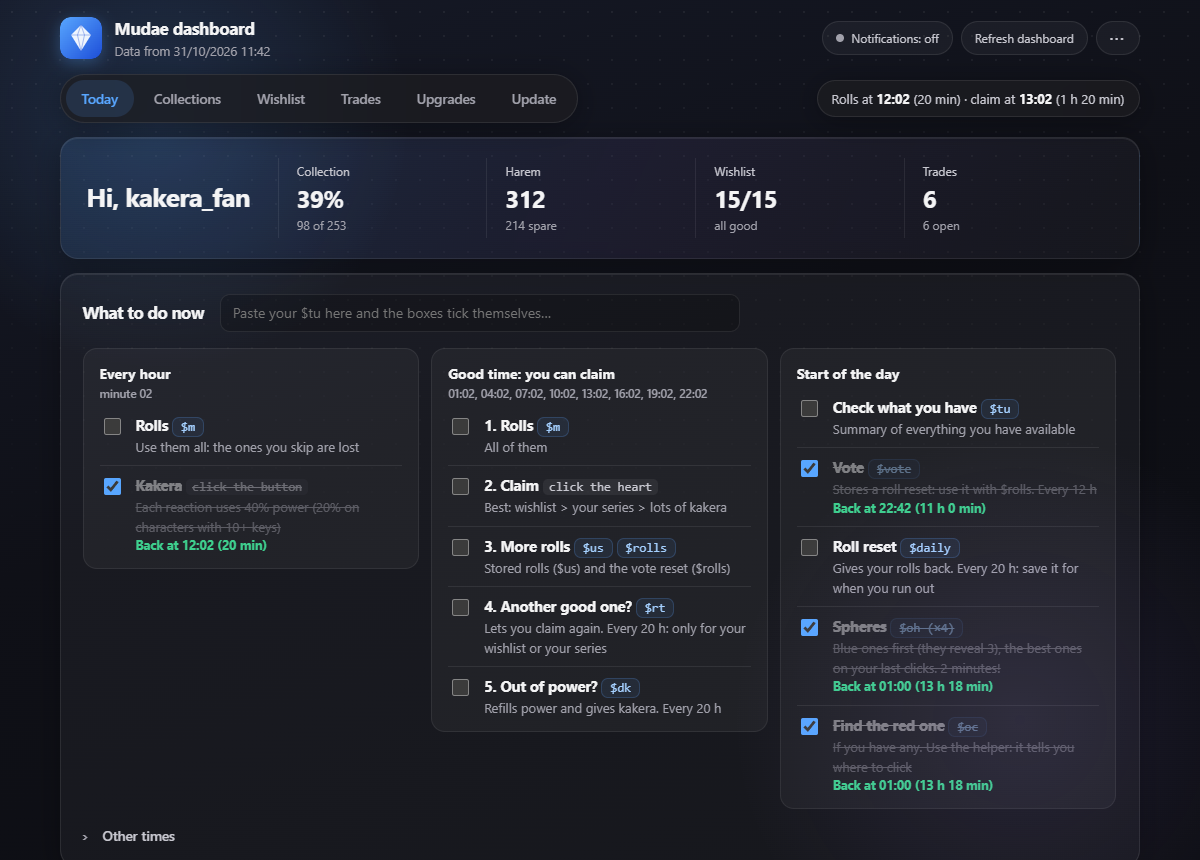
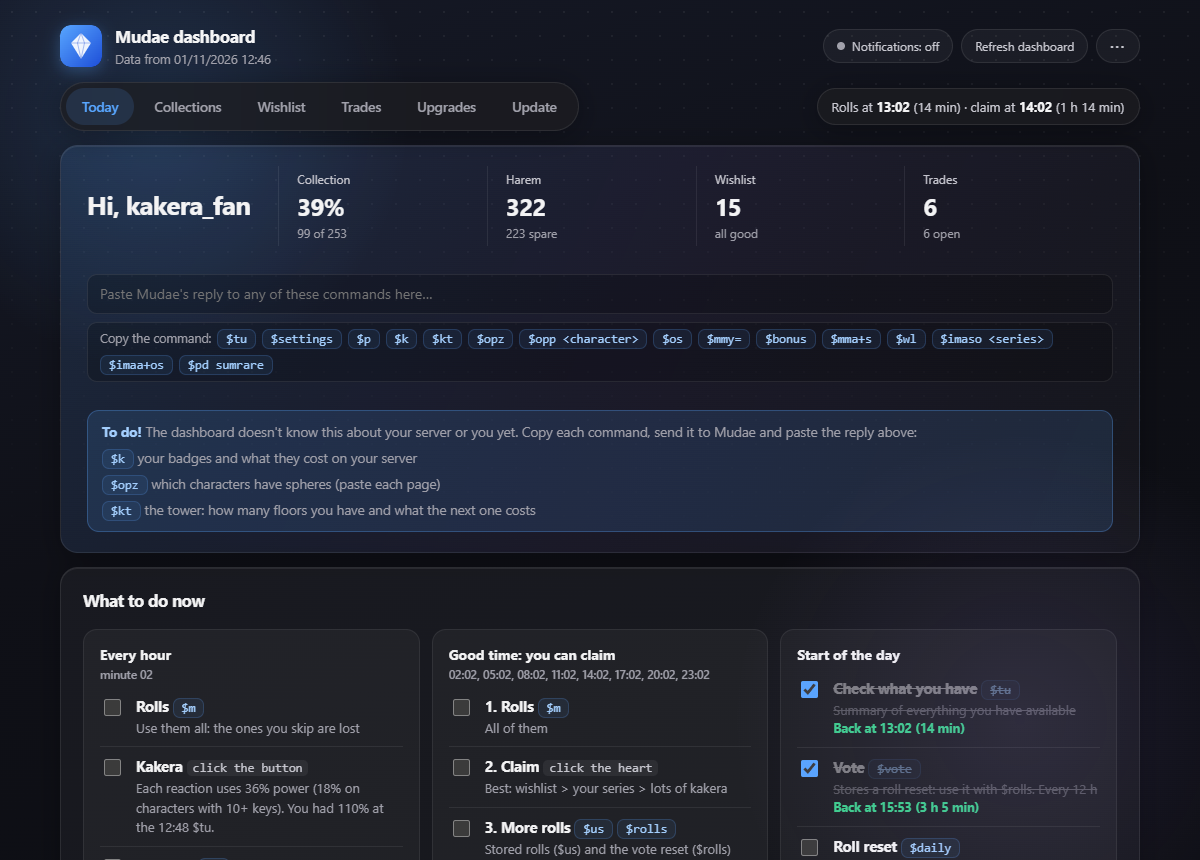
docs: new screenshots and README for paste-to-save and the To do box
Screenshots are anonymised and in English. The READMEs explain that
everything is pasted into the Today box and saved straight away, the
To do box, $opz and the sphere advice.

diff --git a/README.es.md b/README.es.md
@@ -6,24 +6,24 @@
 <b>Descárgalo:</b> botón verde <b>Code → Download ZIP</b>, arriba de esta página.<br>
 <a href="README.md">English</a> · <a href="README.ca.md">Català</a> · <b>Español</b></p>
 
-![La pestaña Hoy: cifras de la colección, el reloj de tiradas y reclamo, y qué toca ahora](assets/tauler.png)
+![La pestaña Hoy: cifras de la colección, el reloj de tiradas y reclamo, la casilla para pegar con el recuadro ¡Pendiente!, y qué toca ahora](assets/tauler.png)
 
 Un panel que funciona en tu ordenador para el bot de Discord Mudae. Pegas lo que te envía Mudae y te lleva las colecciones, la wishlist y los intercambios, te dice qué toca hacer cada hora, te ayuda con el juego de esferas `$oc` y te mantiene al día un Excel. En español, catalán e inglés.
 
 ## Qué hace
 
 - **Pestañas por orden de uso**: Hoy, Colecciones, Wishlist, Intercambios, Mejoras y Poner al día. El reloj de tiradas y reclamo se ve desde todas, los avisos te llevan a la pestaña donde se arreglan, y los bloques largos se pliegan y se quedan abiertos o cerrados como los dejaste.
-- **Una sola casilla para todo**: arriba de la pestaña Hoy pegas cualquier mensaje de Mudae (`$tu`, `$settings`, `$bonus`, `$k`, `$kt`, `$opp`, `$os`, `$mmy=`, `$mma+s`, `$wl`, `$imaso`…) y el panel lo envía donde toca. Debajo hay un botón para copiar cada comando que entiende y un recuadro **¡Pendiente!** con los comandos que aún le faltan: no supone nada de lo que depende de tu servidor o de ti (horas de tiradas y reclamos, horas del `$rt`, huecos de la wishlist, precios de las insignias y de la torre). El harén, la wishlist y las series van a «Poner al día» para que lo revises antes de guardarlo.
+- **Una sola casilla para todo**: arriba de la pestaña Hoy pegas cualquier mensaje de Mudae (`$tu`, `$settings`, `$bonus`, `$k`, `$kt`, `$opp`, `$opz`, `$os`, `$mmy=`, `$mma+s`, `$wl`, `$imaso`…) y el panel lo lee en cuanto lo pegas, sin ningún botón, y lo envía donde toca. Debajo hay un botón para copiar cada comando que entiende y un recuadro **¡Pendiente!** con los comandos que aún le faltan: no supone nada de lo que depende de tu servidor o de ti (horas de tiradas y reclamos, horas del `$rt`, huecos de la wishlist, precios de las insignias y de la torre). El harén, la wishlist y las series se guardan enseguida; una serie nueva o una colección especial te espera en «Poner al día» para que la compruebes.
 - **Qué toca ahora**: pegas el `$tu` y la lista se marca sola, Pokéslot (`$p`) incluido. Tres tarjetas (cada hora, momento de reclamar, al empezar el día) donde cada tarea queda marcada hasta que la puedes volver a hacer (`$daily` y `$dk` cada 20 h, `$vote` cada 12 h, `$oh` a medianoche UTC, tiradas en el minuto de tu servidor…). El minuto de las tiradas y el próximo reclamo salen del `$tu`, cada cuánto hay reclamo del `$settings` y las horas del `$rt` del `$bonus`.
 - **Notificaciones**: mientras el panel está abierto, te avisa cuando vuelves a tener tiradas (y te dice si puedes reclamar y reaccionar a kakera), y cuando vuelves a tener el reclamo, el `$daily`, el `$vote`, el `$dk`, el `$rt` o el `$p`. Suenan y se quedan en pantalla hasta que las cierras. Se activan y se desactivan con el botón **Notificaciones** de arriba.
 - **Ayudante del `$oc`**: marcas los colores que salen y te dice en qué casilla hacer clic para encontrar la roja. Está plegado en la pestaña Hoy: se abre con un clic.
 - **Colecciones**: un álbum por serie con tus personajes, los libres, los de la wishlist y los de otros jugadores (y de quién son). Haces clic en los que consigues para marcarlos como tuyos.
 - **Colecciones especiales**: un grupo que eliges tú, aunque no sea una serie de Mudae (por ejemplo, los Eevee de la Pokédex). Escribes el nombre y los personajes, y el `$imaso` de la serie de la que salen te pone de quién es cada uno.
 - **Pokédex**: pegas el `$pd sumrare` (un solo mensaje) y ves cuántos Pokémon tienes de cada rareza. Si pegas el mensaje del tiempo que falta para el próximo `$p`, se marca la tarea del Pokéslot.
-- **Mejoras**: pegas el `$k`, el `$kt`, un `$opp <personaje>`, el `$os`, el `$mmy=` o el `$bonus` y te dice qué insignia, qué piso de la torre, qué mejora de esferas y qué mejora de la tienda de esferas te toca, y cuánta kakera te falta. El `$bonus` añade un resumen: cuántos botones de kakera haces con el poder lleno, las esferas del primer `$oh`, las horas del `$rt` y los huecos de la wishlist. Los precios solo salen de lo que pegas (`$k`, `$kt`), porque cada servidor tiene los suyos.
+- **Mejoras**: pegas el `$k`, el `$kt`, un `$opp <personaje>`, el `$os`, el `$mmy=` o el `$bonus` y te dice qué insignia, qué piso de la torre, qué mejora de esferas y qué mejora de la tienda de esferas te toca, y cuánta kakera te falta. El `$bonus` añade un resumen: cuántos botones de kakera haces con el poder lleno, las esferas del primer `$oh`, las horas del `$rt` y los huecos de la wishlist. Los precios solo salen de lo que pegas (`$k`, `$kt`), porque cada servidor tiene los suyos. Para las esferas: primero la mejora 10 en todos los personajes que no vayas a regalar (hasta 100), las 1-9 solo en los que te salen a menudo, un plan con el `$or` cuando sale a cuenta, y te dice cuándo parar y pasar a la tienda de esferas. Su casilla funciona como la de Hoy.
 - **Wishlist**: te avisa de los que ya son tuyos o que ha reclamado alguien, y te prepara los comandos `$wishremove` y `$wish`.
 - **Intercambios y regalos**: el comando `$give` para cada jugador, y un buscador que entiende listas de series mal escritas («full metal alchimist», «Rezero»…).
-- **Poner al día**: pegas el `$mma+s` (tu harem, con la serie de cada personaje), el `$wl` o un `$imaso` y haces clic en un botón. Te avisa si hace más de una semana que no pones al día el harem.
+- **Poner al día**: pegas el `$mma+s` (tu harem, con la serie de cada personaje), el `$wl` o un `$imaso` y se guarda en cuanto lo pegas (una serie nueva o una colección especial te espera para que la compruebes y pulses el botón). Te avisa si hace más de una semana que no pones al día el harem.
 - **Comandos de uso habitual**: por temas (tiradas, reclamar, tu colección, harén y perfil, intercambios, esferas, torre, kakera, Pokéslot…), cada grupo plegado, con un buscador («wish», «kakera»…), lo que hace cada comando y un botón de copiar.
 - **Excel**: lo mismo en una hoja de cálculo, que respeta lo que escribes en ella (prioridades, notas, estado de los intercambios).
 
@@ -36,11 +36,12 @@ Un panel que funciona en tu ordenador para el bot de Discord Mudae. Pegas lo que
 1. Instala [Python](https://www.python.org/downloads/) 3.12 o más nuevo. En la primera pantalla del instalador, marca «Add python.exe to PATH» (recomendado, aunque sin él también funciona).
 2. Haz clic en el botón verde **Code → Download ZIP** arriba de esta página. Antes de descomprimirlo: clic derecho al ZIP → **Propiedades** → marca **«Desbloquear»** → Aceptar (si no, Windows puede bloquear los `.bat`). Después descomprime la carpeta donde la quieras tener (por ejemplo, en Documentos). No la abras desde dentro del zip.
 3. Doble clic en **`Configura.bat`**. Elige el idioma (el 2 es el español), escribe tu nombre en Mudae (el que sale en «Pertenece a …» en tus personajes) y, si quieres, el del servidor. Crea el acceso directo **Mudae** en el escritorio y abre el panel.
-4. En el panel, ve a **«Poner al día»** y pega, por orden:
-   - **Tu harem**: escribe `$mma+s` en Discord, copia el mensaje que te llega por privado y pégalo eligiendo «Tu harem».
-   - **Tu wishlist**: `$wl`, eligiendo «La wishlist».
-   - **Cada serie que coleccionas**: `$imaso <serie>` (por ejemplo, `$imaso Harry Potter`), eligiendo «Una serie» → «Serie nueva…» y escribiendo su nombre tal como sale en Mudae.
-   - **Después, todas de golpe**: elige «Todas tus series», copia el comando que sale (`$imaa+os Serie 1 $ Serie 2 $ …`) y pega todos los mensajes que te devuelve Mudae. No hace falta elegir qué pegas: el panel lo adivina.
+4. En el panel, pega lo que te envía Mudae en la casilla de arriba de la pestaña **Hoy**. Adivina qué es cada mensaje y lo guarda solo. Por orden:
+   - **Tu harem**: escribe `$mma+s` en Discord, copia el mensaje que te llega por privado y pégalo.
+   - **Tu wishlist**: `$wl`.
+   - **Cada serie que coleccionas**: `$imaso <serie>` (por ejemplo, `$imaso Harry Potter`). Una serie nueva te espera: comprueba su nombre en «Poner al día» y pulsa **Guardar y actualizar**.
+   - **Después, todas de golpe**: en «Poner al día», elige «Todas tus series», copia el comando que sale (`$imaa+os Serie 1 $ Serie 2 $ …`) y pega todos los mensajes que te devuelve Mudae.
+   - **Tu servidor y tú**: el recuadro **¡Pendiente!**, debajo de la casilla, dice qué comandos faltan (`$tu`, `$settings`, `$bonus`, `$k`…). Pégalos igual.
 
 A partir de aquí, abre el panel con el acceso directo **Mudae** del escritorio.
 
@@ -49,7 +50,7 @@ A partir de aquí, abre el panel con el acceso directo **Mudae** del escritorio.
 - **Qué toca ahora** te dice qué hacer y cuándo. Ve marcando lo que haces.
 - **Cuando consigas un personaje**: en «Colecciones», elige la serie, haz clic en él y en **Ya son míos**.
 - **Cuando regales**: en «Intercambios» → «Buscar entre los míos», búscalos, copia el `$give` y, cuando Mudae lo confirme, haz clic en **Ya los he dado**.
-- **Una vez por semana**: vuelve a pegar el `$mma+s` en «Poner al día» (el panel te avisa).
+- **Una vez por semana**: vuelve a pegar el `$mma+s` en la casilla de Hoy (el panel te avisa).
 
 ## Bueno saber
 

diff --git a/README.ca.md b/README.ca.md
@@ -6,24 +6,24 @@
 <b>Descarrega'l:</b> botó verd <b>Code → Download ZIP</b>, a dalt d'aquesta pàgina.<br>
 <a href="README.md">English</a> · <b>Català</b> · <a href="README.es.md">Español</a></p>
 
-![La pestanya Avui: xifres de la col·lecció, el rellotge de tirades i reclam, i què toca ara](assets/tauler.png)
+![La pestanya Avui: xifres de la col·lecció, el rellotge de tirades i reclam, la casella per enganxar amb el requadre Pendent!, i què toca ara](assets/tauler.png)
 
 Un tauler que funciona al teu ordinador per al bot de Discord Mudae. Hi enganxes el que t'envia Mudae i et porta les col·leccions, la wishlist i els intercanvis, et diu què toca fer a cada hora, t'ajuda amb el joc d'esferes `$oc` i et manté al dia un Excel. En català, castellà i anglès.
 
 ## Què fa
 
 - **Pestanyes per ordre d'ús**: Avui, Col·leccions, Wishlist, Intercanvis, Millores i Posar al dia. El rellotge de tirades i reclam es veu des de totes, els avisos et porten a la pestanya on s'arreglen, i els blocs llargs es pleguen i es queden oberts o tancats com els vas deixar.
-- **Una sola casella per a tot**: a dalt de la pestanya Avui hi enganxes qualsevol missatge de Mudae (`$tu`, `$settings`, `$bonus`, `$k`, `$kt`, `$opp`, `$os`, `$mmy=`, `$mma+s`, `$wl`, `$imaso`…) i el tauler l'envia on toca. A sota hi ha un botó per copiar cada ordre que entén i un requadre **Pendent!** amb les ordres que encara li falten: no suposa res del que depèn del teu servidor o de tu (hores de tirades i reclams, hores del `$rt`, llocs de la wishlist, preus de les insígnies i de la torre). El harem, la wishlist i les sèries van a «Posar al dia» perquè ho revisis abans de desar-ho.
+- **Una sola casella per a tot**: a dalt de la pestanya Avui hi enganxes qualsevol missatge de Mudae (`$tu`, `$settings`, `$bonus`, `$k`, `$kt`, `$opp`, `$opz`, `$os`, `$mmy=`, `$mma+s`, `$wl`, `$imaso`…) i el tauler el llegeix així que l'enganxes, sense cap botó, i l'envia on toca. A sota hi ha un botó per copiar cada ordre que entén i un requadre **Pendent!** amb les ordres que encara li falten: no suposa res del que depèn del teu servidor o de tu (hores de tirades i reclams, hores del `$rt`, llocs de la wishlist, preus de les insígnies i de la torre). El harem, la wishlist i les sèries es desen de seguida; una sèrie nova o una col·lecció especial t'espera a «Posar al dia» perquè la comprovis.
 - **Què toca ara**: enganxes el `$tu` i la llista es marca sola, Pokéslot (`$p`) inclòs. Tres targetes (cada hora, moment de reclamar, en començar el dia) on cada tasca queda marcada fins que la pots tornar a fer (`$daily` i `$dk` cada 20 h, `$vote` cada 12 h, `$oh` a mitjanit UTC, tirades al minut del teu servidor…). El minut de les tirades i el pròxim reclam surten del `$tu`, cada quant hi ha reclam del `$settings` i les hores del `$rt` del `$bonus`.
 - **Notificacions**: mentre el tauler és obert, t'avisa quan tornes a tenir tirades (i et diu si pots reclamar i reaccionar a kakera), i quan tornes a tenir el reclam, el `$daily`, el `$vote`, el `$dk`, el `$rt` o el `$p`. Fan un so i es queden a la pantalla fins que les tanques. S'activen i es desactiven amb el botó **Notificacions** de dalt.
 - **Ajudant del `$oc`**: marques els colors que surten i et diu quina casella clicar per trobar la vermella. És plegat a la pestanya Avui: s'obre amb un clic.
 - **Col·leccions**: un àlbum per sèrie amb els teus personatges, els lliures, els de la wishlist i els d'altres jugadors (i de qui són). Cliques els que aconsegueixes per marcar-los com a teus.
 - **Col·leccions especials**: un grup que tries tu, encara que no sigui una sèrie de Mudae (per exemple, els Eevee de la Pokédex). Escrius el nom i els personatges, i el `$imaso` de la sèrie d'on surten t'hi posa de qui és cada un.
 - **Pokédex**: enganxes el `$pd sumrare` (un sol missatge) i veus quants Pokémon tens de cada raresa. Si enganxes el missatge del temps que falta per al pròxim `$p`, es marca la tasca del Pokéslot.
-- **Millores**: enganxes el `$k`, el `$kt`, un `$opp <personatge>`, el `$os`, el `$mmy=` o el `$bonus` i et diu quina insígnia, quin pis de la torre, quina millora d'esferes i quina de la botiga d'esferes et toca, i quanta kakera et falta. El `$bonus` hi afegeix un resum: quants botons de kakera fas amb el poder ple, les esferes del primer `$oh`, les hores del `$rt` i els llocs de la wishlist. Els preus només surten del que enganxes (`$k`, `$kt`), perquè cada servidor té els seus.
+- **Millores**: enganxes el `$k`, el `$kt`, un `$opp <personatge>`, el `$os`, el `$mmy=` o el `$bonus` i et diu quina insígnia, quin pis de la torre, quina millora d'esferes i quina de la botiga d'esferes et toca, i quanta kakera et falta. El `$bonus` hi afegeix un resum: quants botons de kakera fas amb el poder ple, les esferes del primer `$oh`, les hores del `$rt` i els llocs de la wishlist. Els preus només surten del que enganxes (`$k`, `$kt`), perquè cada servidor té els seus. Per a les esferes: primer la millora 10 a tots els personatges que no regalaràs (fins a 100), les 1-9 només als que et surten sovint, un pla amb el `$or` quan surt a compte, i et diu quan has de parar i passar a la botiga d'esferes. La seva casella funciona com la d'Avui.
 - **Wishlist**: t'avisa dels que ja són teus o que ha reclamat algú, i et prepara les ordres `$wishremove` i `$wish`.
 - **Intercanvis i regals**: l'ordre `$give` per a cada jugador, i un cercador que entén llistes de sèries mal escrites («full metal alchimist», «Rezero»…).
-- **Posar al dia**: enganxes el `$mma+s` (el teu harem, amb la sèrie de cada personatge), el `$wl` o un `$imaso` i cliques un botó. T'avisa si fa més d'una setmana que no poses al dia el harem.
+- **Posar al dia**: enganxes el `$mma+s` (el teu harem, amb la sèrie de cada personatge), el `$wl` o un `$imaso` i es desa així que l'enganxes (una sèrie nova o una col·lecció especial t'espera perquè la comprovis i cliquis el botó). T'avisa si fa més d'una setmana que no poses al dia el harem.
 - **Ordres d'ús habitual**: per temes (tirades, reclamar, la teva col·lecció, harem i perfil, intercanvis, esferes, torre, kakera, Pokéslot…), cada grup plegat, amb un cercador («wish», «kakera»…), el que fa cada ordre i un botó de copiar.
 - **Excel**: el mateix en un full de càlcul, que respecta el que hi escrius (prioritats, notes, estat dels intercanvis).
 
@@ -36,11 +36,12 @@ Un tauler que funciona al teu ordinador per al bot de Discord Mudae. Hi enganxes
 1. Instal·la [Python](https://www.python.org/downloads/) 3.12 o més nou. A la primera pantalla de l'instal·lador, marca «Add python.exe to PATH» (recomanat, tot i que sense també funciona).
 2. Clica el botó verd **Code → Download ZIP** a dalt d'aquesta pàgina. Abans de descomprimir-lo: clic dret al ZIP → **Propietats** → marca **«Desbloqueja»** → D'acord (si no, Windows pot bloquejar els `.bat`). Després descomprimeix la carpeta on la vulguis tenir (per exemple, a Documents). No l'obris des de dins del zip.
 3. Doble clic a **`Configura.bat`**. Tria l'idioma (el 3 és el català), escriu el teu nom a Mudae (el que surt a «Pertenece a …» als teus personatges) i, si vols, el del servidor. Crea l'accés directe **Mudae** a l'escriptori i obre el tauler.
-4. Al tauler, ves a **«Posar al dia»** i enganxa-hi, per ordre:
-   - **El teu harem**: escriu `$mma+s` a Discord, copia el missatge que t'arriba per privat i enganxa'l triant «El teu harem».
-   - **La teva wishlist**: `$wl`, triant «La wishlist».
-   - **Cada sèrie que col·lecciones**: `$imaso <sèrie>` (per exemple, `$imaso Harry Potter`), triant «Una sèrie» → «Sèrie nova…» i escrivint-ne el nom tal com surt a Mudae.
-   - **Després, totes de cop**: tria «Totes les teves sèries», copia l'ordre que surt (`$imaa+os Sèrie 1 $ Sèrie 2 $ …`) i enganxa tots els missatges que et torna Mudae. No cal triar què enganxes: el tauler ho endevina.
+4. Al tauler, enganxa el que t'envia Mudae a la casella de dalt de la pestanya **Avui**. Endevina què és cada missatge i el desa sol. Per ordre:
+   - **El teu harem**: escriu `$mma+s` a Discord, copia el missatge que t'arriba per privat i enganxa'l.
+   - **La teva wishlist**: `$wl`.
+   - **Cada sèrie que col·lecciones**: `$imaso <sèrie>` (per exemple, `$imaso Harry Potter`). Una sèrie nova t'espera: comprova'n el nom a «Posar al dia» i clica **Desar i actualitzar**.
+   - **Després, totes de cop**: a «Posar al dia», tria «Totes les teves sèries», copia l'ordre que surt (`$imaa+os Sèrie 1 $ Sèrie 2 $ …`) i enganxa tots els missatges que et torna Mudae.
+   - **El teu servidor i tu**: el requadre **Pendent!**, sota la casella, diu quines ordres falten (`$tu`, `$settings`, `$bonus`, `$k`…). Enganxa-les igual.
 
 A partir d'aquí, obre el tauler amb l'accés directe **Mudae** de l'escriptori.
 
@@ -49,7 +50,7 @@ A partir d'aquí, obre el tauler amb l'accés directe **Mudae** de l'escriptori.
 - **Què toca ara** et diu què fer i quan. Ves marcant el que fas.
 - **Quan aconsegueixis un personatge**: a «Col·leccions», tria la sèrie, clica'l i clica **Ja són meus**.
 - **Quan regalis**: a «Intercanvis» → «Buscar entre els meus», busca'ls, copia el `$give` i, quan Mudae ho confirmi, clica **Ja els he donat**.
-- **Un cop per setmana**: torna a enganxar el `$mma+s` a «Posar al dia» (el tauler t'avisa).
+- **Un cop per setmana**: torna a enganxar el `$mma+s` a la casella d'Avui (el tauler t'avisa).
 
 ## Bo de saber
 

diff --git a/README.md b/README.md
@@ -6,24 +6,24 @@
 <b>Download:</b> green <b>Code → Download ZIP</b> button at the top of this page.<br>
 <b>English</b> · <a href="README.ca.md">Català</a> · <a href="README.es.md">Español</a></p>
 
-![The Today tab: collection stats, the roll and claim clock, and what to do now](assets/tauler.png)
+![The Today tab: collection stats, the roll and claim clock, the paste box with its To do! list, and what to do now](assets/tauler.png)
 
 A dashboard that runs on your own computer for the Mudae Discord bot. You paste what Mudae sends you and it tracks your collections, wishlist and trades, tells you what to do each hour, helps you with the `$oc` sphere game and keeps an Excel workbook up to date. Available in English, Catalan and Spanish.
 
 ## Features
 
 - **Tabs in the order you use them**: Today, Collections, Wishlist, Trades, Upgrades and Update. The roll and claim clock stays above the tabs, alerts take you to the tab where you fix them, and long sections fold away and stay open or closed the way you left them.
-- **One box for everything**: paste any Mudae message at the top of the Today tab (`$tu`, `$settings`, `$bonus`, `$k`, `$kt`, `$opp`, `$os`, `$mmy=`, `$mma+s`, `$wl`, `$imaso`…) and the dashboard sends it where it belongs. Under it, a copy button for each command it understands and a **To do!** box with the commands it still needs: nothing that depends on your server or on you is assumed (roll and claim times, `$rt` hours, wishlist slots, badge and tower prices). Harem, wishlist and series go to «Update» so you can check them before saving.
+- **One box for everything**: paste any Mudae message at the top of the Today tab (`$tu`, `$settings`, `$bonus`, `$k`, `$kt`, `$opp`, `$opz`, `$os`, `$mmy=`, `$mma+s`, `$wl`, `$imaso`…) and the dashboard reads it as soon as you paste it, with no button, and sends it where it belongs. Under it, a copy button for each command it understands and a **To do!** box with the commands it still needs: nothing that depends on your server or on you is assumed (roll and claim times, `$rt` hours, wishlist slots, badge and tower prices). Harem, wishlist and series are saved straight away; a new series or a custom collection waits in «Update» for you to check it.
 - **What to do now**: paste your `$tu` and the checklist ticks itself, Pokéslot (`$p`) included. Three cards (every hour, claim time, start of the day) where each task stays ticked until you can do it again (`$daily` and `$dk` every 20 h, `$vote` every 12 h, `$oh` at midnight UTC, rolls at your server's minute…). The roll minute and the next claim come from your `$tu`, how often claims reset from `$settings`, and the `$rt` hours from `$bonus`.
 - **Notifications**: while the dashboard is open, it tells you when your rolls are back (and whether you can claim and react to kakera), and when your claim, `$daily`, `$vote`, `$dk`, `$rt` or `$p` are ready again. They beep and stay on screen until you close them. Turn them on and off with the **Notifications** button at the top.
 - **`$oc` helper**: mark the colors that appear and it tells you which square to click to find the red sphere. It's folded on the Today tab: open it with a click.
 - **Collections**: one album per series with your characters, the free ones, the ones on your wishlist and the ones other players own (and who). Click the ones you get to mark them as yours.
 - **Custom collections**: a group you pick, even if it isn't a Mudae series (for example, the Eevees from the Pokédex). Type its name and characters, and the `$imaso` of the series they come from fills in who owns each one.
 - **Pokédex**: paste your `$pd sumrare` (one message) and see how many Pokémon you have of each rarity. Pasting the «time left before your next `$p`» message ticks the Pokéslot task.
-- **Upgrades**: paste your `$k`, `$kt`, `$opp <character>`, `$os`, `$mmy=` or `$bonus` and it tells you which badge, tower floor, sphere perk and sphere shop upgrade to get next, and how much kakera you still need. The `$bonus` adds a summary: how many kakera buttons a full power bar covers, the spheres your first `$oh` gives, your `$rt` hours and your wishlist slots. Prices only come from what you paste (`$k`, `$kt`), since each server sets its own.
+- **Upgrades**: paste your `$k`, `$kt`, `$opp <character>`, `$os`, `$mmy=` or `$bonus` and it tells you which badge, tower floor, sphere perk and sphere shop upgrade to get next, and how much kakera you still need. The `$bonus` adds a summary: how many kakera buttons a full power bar covers, the spheres your first `$oh` gives, your `$rt` hours and your wishlist slots. Prices only come from what you paste (`$k`, `$kt`), since each server sets its own. For spheres: perk 10 first on every character you keep (up to 100), perks 1-9 only on the ones you roll often, a `$or` refund plan when it pays off, and it tells you when to stop and move to the sphere shop. Its paste box works like the Today one.
 - **Wishlist**: warns you about characters you already own or someone else claimed, and builds the `$wishremove` and `$wish` commands for you.
 - **Trades and gifts**: the `$give` command for each player, and a search box that understands misspelled series lists («full metal alchimist», «Rezero»…).
-- **Update**: paste your `$mma+s` (your harem, with each character's series), `$wl` or an `$imaso` and click a button. It reminds you if your harem is more than a week old.
+- **Update**: paste your `$mma+s` (your harem, with each character's series), `$wl` or an `$imaso` and it's saved as soon as you paste it (a new series or a custom collection waits for you to check it and click the button). It reminds you if your harem is more than a week old.
 - **Common commands**: grouped by topic (rolls, claims, your collection, harem and profile, trades, spheres, tower, kakera, Pokéslot…), each group folded, with a search box («wish», «kakera»…), what each command does and a copy button.
 - **Excel**: the same in a spreadsheet, which keeps what you type in it (priorities, notes, trade status).
 
@@ -36,11 +36,12 @@ A dashboard that runs on your own computer for the Mudae Discord bot. You paste 
 1. Install [Python](https://www.python.org/downloads/) 3.12 or newer. On the first screen of the installer, tick «Add python.exe to PATH» (recommended, though it also works without it).
 2. Click the green **Code → Download ZIP** button at the top of this page. Before unzipping it: right-click the ZIP → **Properties** → tick **«Unblock»** → OK (otherwise Windows may block the `.bat` files). Then unzip the folder somewhere you'll keep it (for example, Documents). Don't run it from inside the zip.
 3. Double-click **`Configura.bat`**. Choose your language (English by default), then type your Mudae name (the one in «Belongs to …» on your characters) and, if you want, your server's name. It creates a **Mudae** shortcut on your desktop and opens the dashboard.
-4. In the dashboard, go to **«Update»** and paste, in this order:
-   - **Your harem**: type `$mma+s` in Discord, copy the message Mudae sends you by DM and paste it choosing «Your harem».
-   - **Your wishlist**: `$wl`, choosing «Your wishlist».
-   - **Each series you collect**: `$imaso <series>` (for example `$imaso Harry Potter`), choosing «A series» → «New series…» and typing its name as Mudae shows it.
-   - **Then, all at once**: choose «All your series», copy the command it shows (`$imaa+os Series 1 $ Series 2 $ …`) and paste every message Mudae sends back. No need to pick what you're pasting: the dashboard works it out.
+4. In the dashboard, paste what Mudae sends you into the box at the top of the **Today** tab. It works out what each message is and saves it by itself. In this order:
+   - **Your harem**: type `$mma+s` in Discord, copy the message Mudae sends you by DM and paste it.
+   - **Your wishlist**: `$wl`.
+   - **Each series you collect**: `$imaso <series>` (for example `$imaso Harry Potter`). A new series waits for you: check its name in «Update» and click **Save and update**.
+   - **Then, all at once**: in «Update», choose «All your series», copy the command it shows (`$imaa+os Series 1 $ Series 2 $ …`) and paste every message Mudae sends back.
+   - **Your server and you**: the **To do!** box under the paste box lists the commands still missing (`$tu`, `$settings`, `$bonus`, `$k`…). Paste them the same way.
 
 From then on, open the dashboard with the **Mudae** shortcut on your desktop.
 
@@ -49,7 +50,7 @@ From then on, open the dashboard with the **Mudae** shortcut on your desktop.
 - **What to do now** tells you what to do and when. Tick things as you do them.
 - **When you get a character**: in «Collections», choose the series, click it and click **They're mine**.
 - **When you give characters away**: in «Trades» → «Search my characters», find them, copy the `$give` command and, once Mudae confirms it, click **I've given them**.
-- **Once a week**: paste your `$mma+s` again in «Update» (the dashboard reminds you).
+- **Once a week**: paste your `$mma+s` again in the Today box (the dashboard reminds you).
 
 ## Good to know
 
